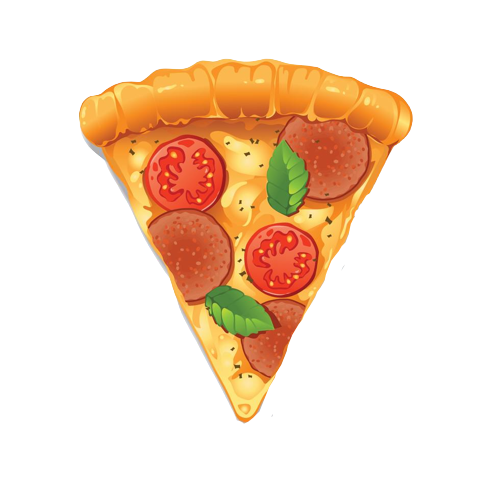
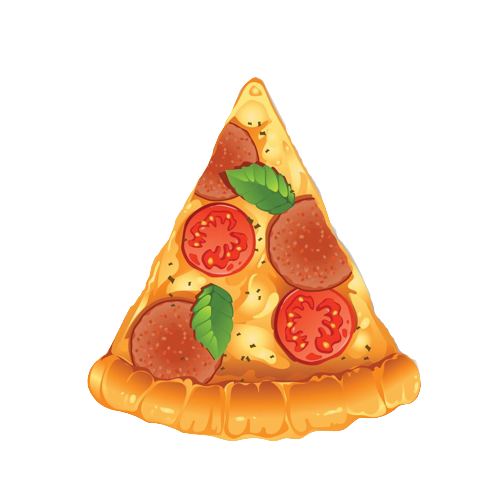
sorted query by distance

diff --git a/src/App.js b/src/App.js
@@ -23,55 +23,39 @@ import {
 import "@reach/combobox/styles.css";
 
 const libraries = ["places"];
-
-const mapContainerStyle = {
-  width: "100vw",
-  height: "100vh",
-};
-
-const center = {
-  lat: 29.760427,
-  lng: -95.369804,
-};
+const mapContainerStyle = { width: "100vw", height: "100vh" };
+const center = { lat: 29.760427, lng: -95.369804 };
 const options = {
   styles: mapStyles,
   disableDefaultUI: true,
   zoomControl: true,
 };
+
 export default function App() {
   const { isLoaded, loadError } = useLoadScript({
     googleMapsApiKey: "AIzaSyChx65TaOoV6FVspAn917zZm2siJHJsuEg",
     libraries,
   });
 
-  const [userGeo, setUserGeo] = React.useState(null);
-
-  const [markers, setMarkers] = React.useState([]);
-
-  // const onMapClick = React.useCallback((event) => {
-  //   setMarkers((current) => [
-  //     ...current,
-  //     {
-  //       lat: event.latLng.lat(),
-  //       lng: event.latLng.lng(),
-  //       time: new Date(),
-  //     },
-  //   ]);
-  // }, []);
-
   const mapRef = React.useRef();
-  let placesService;
+  const placesService = React.useRef(null);
+  const [userGeo, setUserGeo] = React.useState(null);
+  const [markers, setMarkers] = React.useState([]);
+  const [selected, setSelected] = React.useState(null);
+  const [showCompass, setShowCompass] = React.useState(false);
+  const [compassHeading, setCompassHeading] = React.useState(0);
 
-  const onMapLoad = React.useCallback((map) => {
+  const onMapLoad = (map) => {
     mapRef.current = map;
-  }, []);
+    placesService.current = new window.google.maps.places.PlacesService(
+      mapRef.current
+    );
+  };
 
   const panTo = React.useCallback(({ lat, lng }) => {
     mapRef.current.panTo({ lat, lng });
     mapRef.current.setZoom(12);
   }, []);
-
-  const [selected, setSelected] = React.useState(null);
 
   const milesFrom = (userLocation, targetLocation) => {
     const { location } = targetLocation.geometry;
@@ -80,45 +64,29 @@ export default function App() {
     return Math.hypot(dx, dy) * 69.2;
   };
 
-  const radialSearchTrigger = React.useCallback(
-    (userPosition, placesService) => {
-      const searchCircle = new window.google.maps.Circle({
-        center: userPosition,
-        radius: 1609.344 * 25, // rough convertion from meters to miles
-      });
-      // console.log(placesService)
-      placesService.textSearch(
-        {
-          query: "Pizza",
-          // openNow: true,
-          location: userPosition,
-          radius: 1609.344 * 50,
-          type: ["resturaunt"],
-        },
-        (results, status) => {
-          if (status === window.google.maps.places.PlacesServiceStatus.OK) {
-            setMarkers(
-              results.map((result) => ({
+  const radialSearchTrigger = (userPosition, placesService) => {
+    placesService.textSearch(
+      {
+        query: "Pizza",
+        location: userPosition,
+        radius: 1609.344 * 2,
+        type: ["resturaunt", "meal_takeaway"],
+      },
+      (results, status) => {
+        if (status === window.google.maps.places.PlacesServiceStatus.OK) {
+          console.log(results);
+          setMarkers(
+            results
+              .map((result) => ({
                 ...result,
                 distanceFromUser: milesFrom(userPosition, result),
               }))
-            );
-          }
+              .sort((a, b) => a.distanceFromUser - b.distanceFromUser)
+          );
         }
-      );
-    },
-    [mapRef.current]
-  );
-
-  React.useEffect(() => {
-    console.log("userGeo: ", userGeo);
-    if (mapRef.current && userGeo) {
-      placesService = new window.google.maps.places.PlacesService(
-        mapRef.current
-      );
-      radialSearchTrigger(userGeo, placesService);
-    }
-  }, [mapRef.current, userGeo]);
+      }
+    );
+  };
 
   const markerMaker = (marker) => {
     const { geometry, name, place_id } = marker;
@@ -144,30 +112,81 @@ export default function App() {
     );
   };
 
-  if (loadError) return "Error loading maps";
+  React.useEffect(() => {
+    setMarkers([]);
+    if (userGeo?.lat && userGeo?.lng) {
+      radialSearchTrigger(userGeo, placesService.current);
+    }
+  }, [userGeo?.lat, userGeo?.lng]);
 
+  React.useEffect(() => {
+    if (userGeo?.lat && userGeo?.lng && markers?.[0]) {
+      let x1 = markers[0].geometry.location.lat();
+      let y1 = markers[0].geometry.location.lng();
+      let x2 = userGeo.lat;
+      let y2 = userGeo.lng;
+    
+      const getAtan2 = (y, x) => Math.atan2(y, x);
+      let compassReading = getAtan2(y1 - y2, x1 - x2) * (180 / Math.PI);
+    
+      setCompassHeading(compassReading)
+    }
+  }, [markers, userGeo, setCompassHeading])
+
+  if (loadError) return "Error loading maps";
   if (!isLoaded) return "loading maps";
 
   return (
     <div>
+      <div 
+        className="compassContainer"
+        style={{
+          zIndex: `2`,
+          position: "absolute",
+          width: '100vw',
+          height: '100vh',
+          justifyContent: 'center',
+          alignItems: 'center',
+          display: showCompass ? 'flex' : 'none',
+        }}
+        >
+        <img
+          className="comapssSlice"
+          src={"./topPizza.png"}
+          width="auto"
+          height="800"
+          style={{
+            transition: 'transform 1s ease-in-out',
+            transform: `rotate(${compassHeading}deg)`
+          }}
+        />
+      </div>
       <h1>
         Pizza Hunter
-        <img src={"./topPizza.png"} width="auto" height="80" />
+        <button
+          style={{ background: "transparent", border: "none" }}
+          onClick={() => setShowCompass(!showCompass)}
+        >
+          <img src={"./topPizza.png"} width="auto" height="80" />
+        </button>
       </h1>
-
       <Locate
         panTo={panTo}
         setUserGeo={setUserGeo}
         radialSearchTrigger={radialSearchTrigger}
+        placesService={placesService}
       />
-      <Search panTo={panTo} setUserGeo={setUserGeo} />
-
+      <Search
+        panTo={panTo}
+        setUserGeo={setUserGeo}
+        placesService={placesService}
+        radialSearchTrigger={radialSearchTrigger}
+      />
       <GoogleMap
         mapContainerStyle={mapContainerStyle}
         zoom={8}
         center={center}
         options={options}
-        // onClick={onMapClick}
         onLoad={onMapLoad}
       >
         {userGeo?.lat && userGeo?.lng && (
@@ -180,7 +199,6 @@ export default function App() {
             }}
           />
         )}
-
         {markers.map(markerMaker)}
         {selected ? (
           <InfoWindow
@@ -205,7 +223,7 @@ export default function App() {
   );
 }
 
-function Locate({ panTo, setUserGeo, radialSearchTrigger }) {
+function Locate({ panTo, setUserGeo }) {
   return (
     <button
       className="locate"
@@ -216,9 +234,10 @@ function Locate({ panTo, setUserGeo, radialSearchTrigger }) {
             const userPosition = { lat: latitude, lng: longitude };
             panTo(userPosition);
             setUserGeo(userPosition);
-            //  radialSearchTrigger(userPosition);
           },
-          () => null //TODO: Error Handle
+          () => {
+            throw new Error("geoLocationError");
+          }
         );
       }}
     >
@@ -235,10 +254,7 @@ function Search({ panTo, setUserGeo }) {
     setValue,
     clearSuggestion,
   } = usePlacesAutocomplete({
-    requestOptions: {
-      location: { lat: () => 29.760427, lng: () => -95.369804 },
-      radius: 15 * 1000,
-    },
+    requestOptions: {},
   });
 
   return (
@@ -246,8 +262,6 @@ function Search({ panTo, setUserGeo }) {
       <Combobox
         onSelect={async (address) => {
           setValue(address, false);
-          //clearSuggestion();
-
           try {
             const results = await getGeocode({ address });
             const { lat, lng } = await getLatLng(results[0]);
@@ -256,8 +270,6 @@ function Search({ panTo, setUserGeo }) {
           } catch (error) {
             console.log("error");
           }
-
-          //console.log(address);
         }}
       >
         <ComboboxInput

diff --git a/src/App.css b/src/App.css
@@ -1,18 +1,3 @@
-body {
-  margin: 0;
-  font-family: -apple-system, BlinkMacSystemFont, "Segoe UI", "Roboto", "Oxygen",
-    "Ubuntu", "Cantarell", "Fira Sans", "Droid Sans", "Helvetica Neue",
-    sans-serif;
-  -webkit-font-smoothing: antialiased;
-  -moz-osx-font-smoothing: grayscale;
-  font-size: 18px;
-}
-
-code {
-  font-family: source-code-pro, Menlo, Monaco, Consolas, "Courier New",
-    monospace;
-}
-
 h1 {
   font-family: Helvetica, Sans-Serif;
   position: absolute;
@@ -23,6 +8,8 @@ h1 {
   margin: 0;
   padding: 0;
   height: 70;
+  display: flex;
+  align-items: center;
 }
 
 .search {
@@ -49,7 +36,19 @@ h1 {
   border: none;
   z-index: 10;
 }
+
 .locate img {
-  width: 30px;
+  width: 76px;
   cursor: pointer;
+}
+
+.compassContainer {
+  background-color: #ff4e00;
+  background-image: linear-gradient(315deg, #ff4e00 0%, #ec9f05 74%);
+}
+
+@media screen and (max-width: 768px) {
+  .search {
+    top: 7em;
+  }
 }

diff --git a/src/index.css b/src/index.css
@@ -7,46 +7,3 @@ body {
   -moz-osx-font-smoothing: grayscale;
 }
 
-code {
-  font-family: source-code-pro, Menlo, Monaco, Consolas, 'Courier New',
-    monospace;
-}
-h1 {
-  position: absolute;
-  top: 1rem;
-  left: 1rem;
-  color: #281414;
-  z-index: 10;
-  margin: 0;
-  padding: 0;
-}
-
-.search {
-  position: absolute;
-  top: 1rem;
-  left: 50%;
-  transform: translateX(-50%);
-  width: 100%;
-  max-width: 400px;
-  z-index: 10;
-}
-
-.search input {
-  padding: 0.5rem;
-  font-size: 1.5rem;
-  width: 100%;
-}
-
-.locate {
-  position: absolute;
-  top: 1rem;
-  right: 1rem;
-  background: none;
-  border: none;
-  z-index: 10;
-}
-.locate img {
-  width: 100px;
-  height: auto;
-  cursor: pointer;
-}
